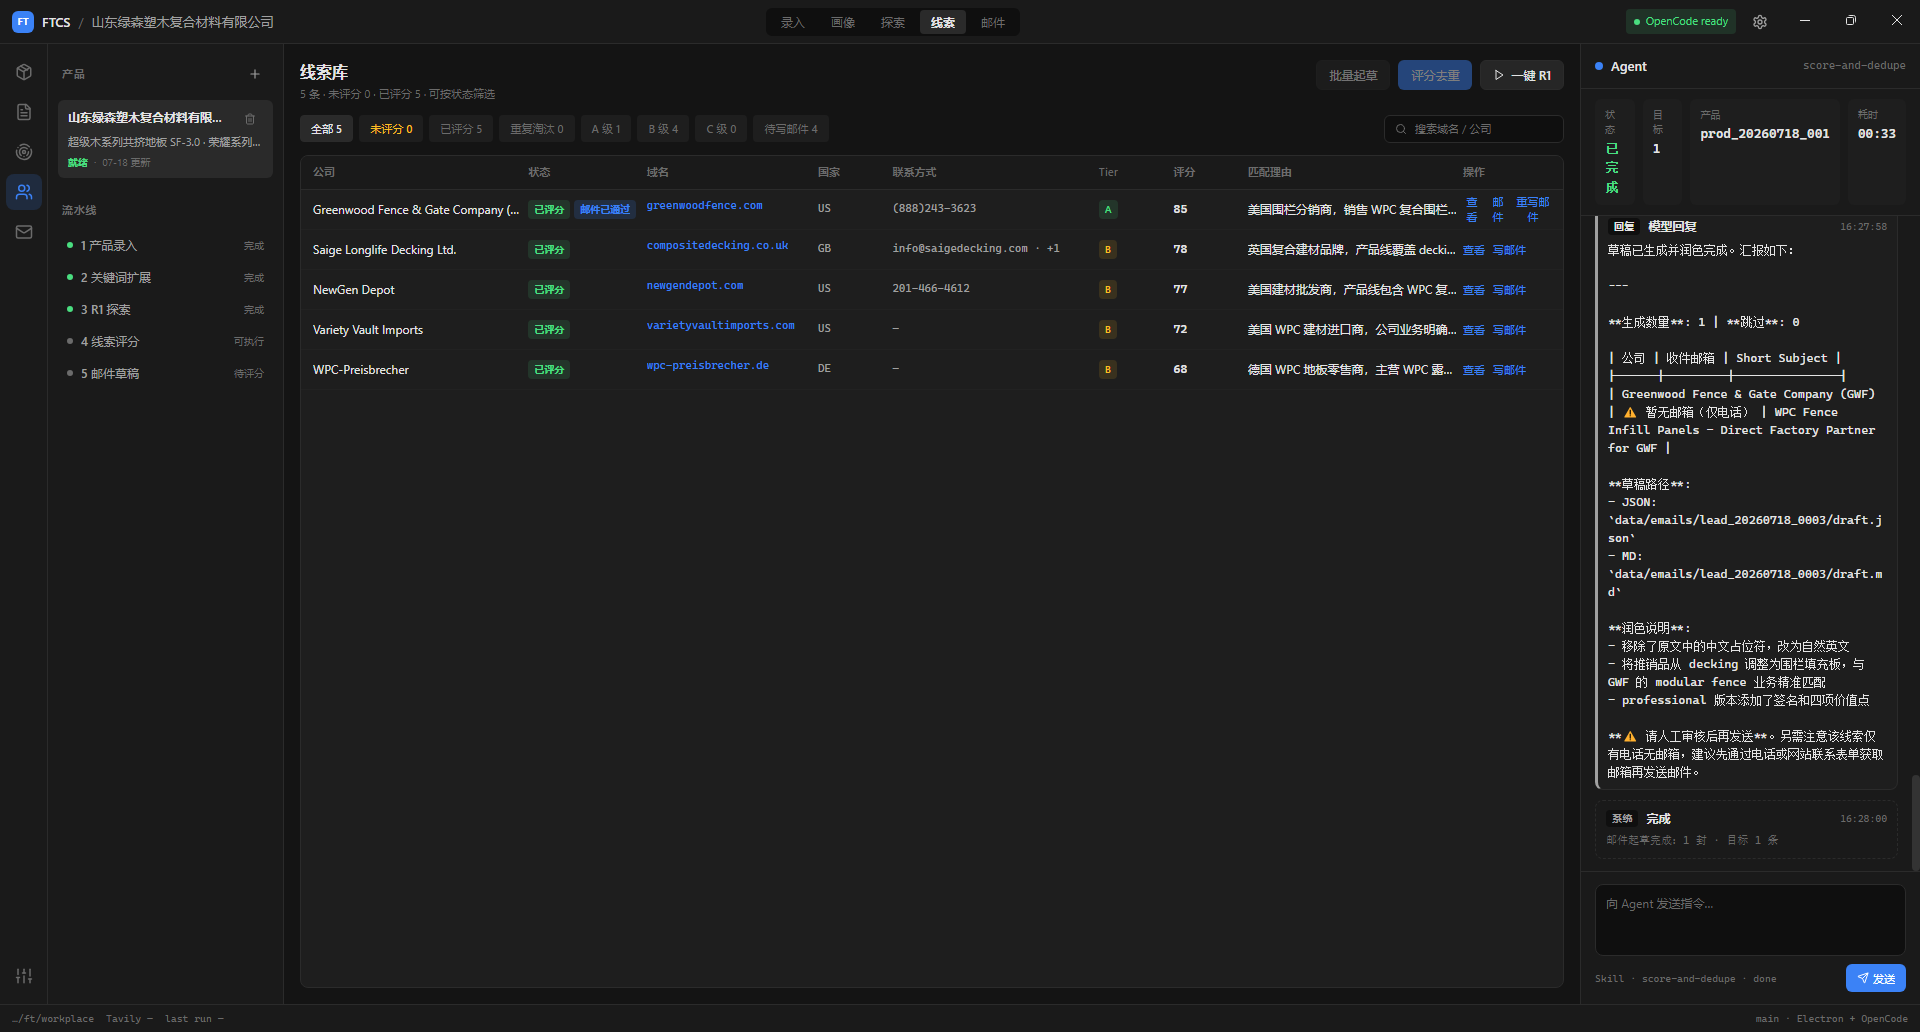
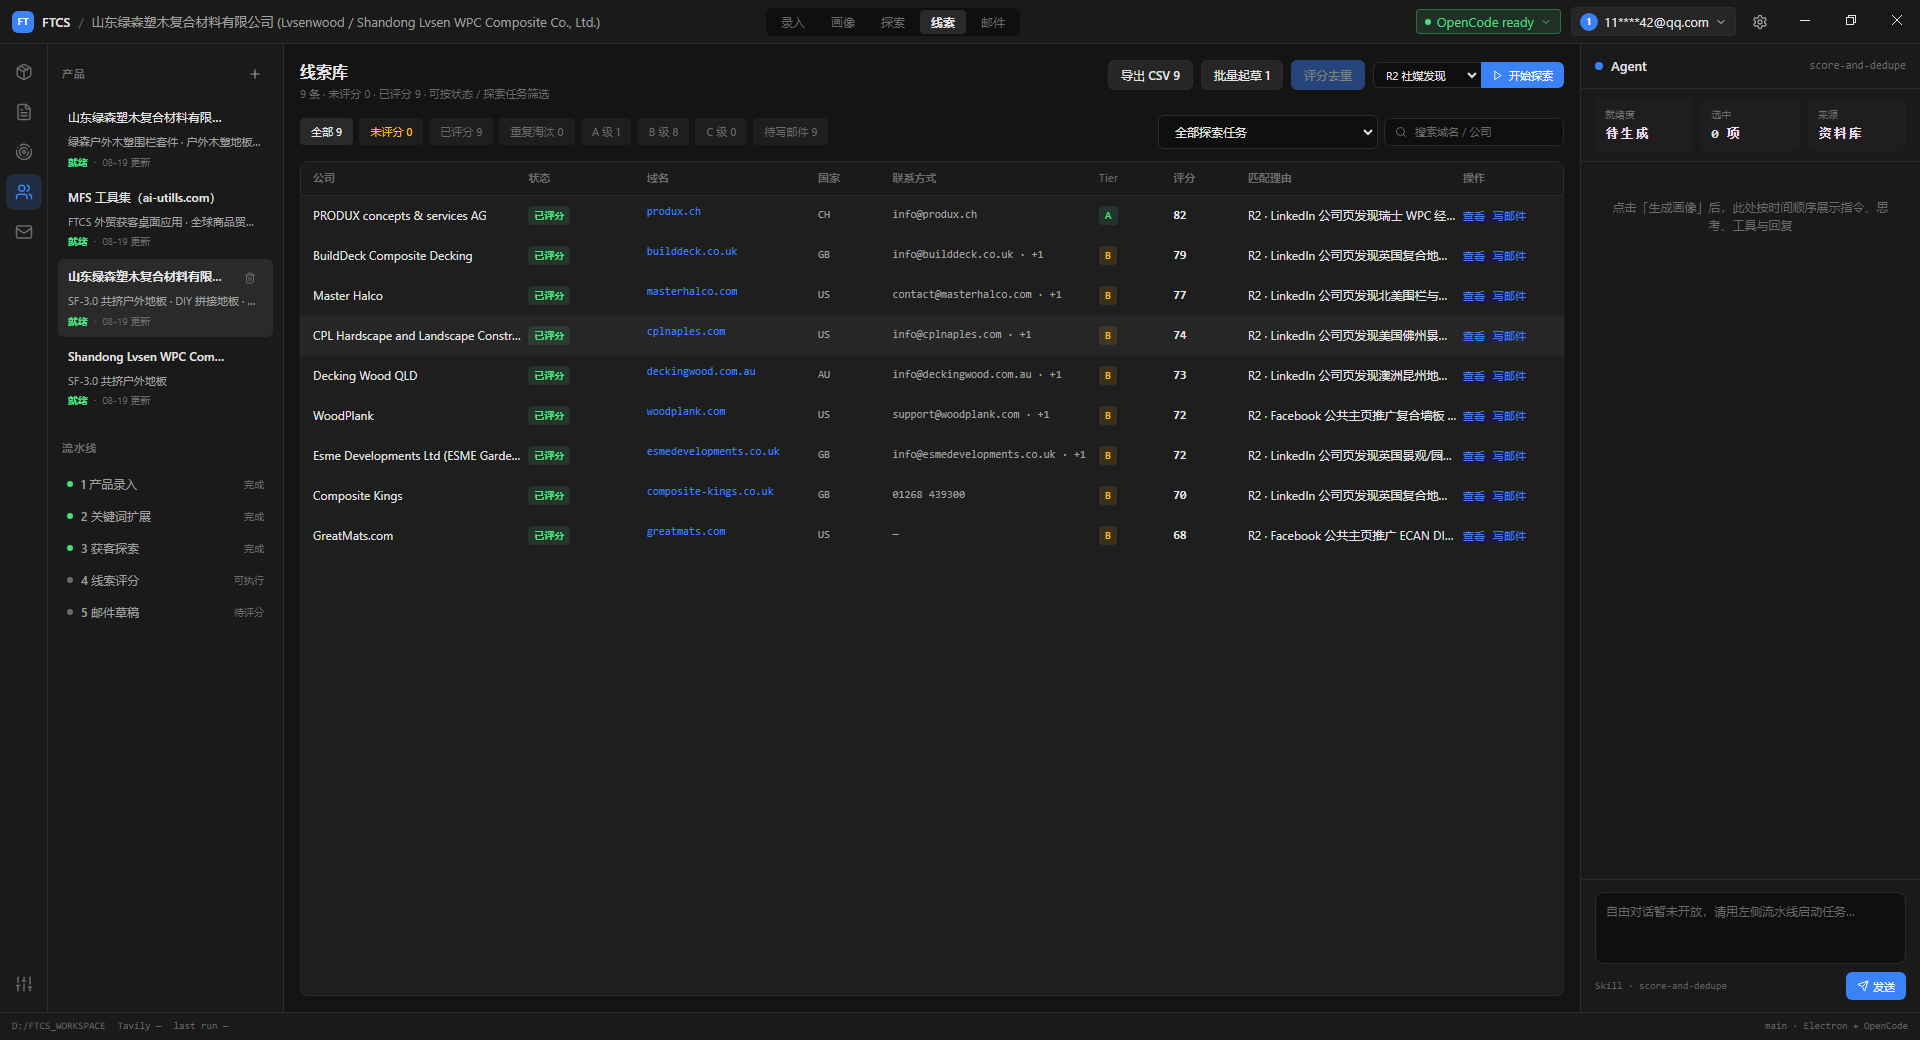
官网文案对齐广撒网与社媒发现，并更新探索、线索与设置截图。

diff --git a/website/src/views/HomeView.vue b/website/src/views/HomeView.vue
@@ -21,13 +21,13 @@ const steps = [
   },
   {
     title: '产品画像',
-    body: 'AI 抽出公司、产品、买家与目标市场。画像是后续关键词与全网探索的基础。',
+    body: 'AI 抽出公司、产品、买家与目标市场。画像是后续关键词与获客探索的基础。',
     src: withBase('screenshots/ftcs-产品画像.png'),
     alt: '产品画像界面',
   },
   {
     title: '获客探索',
-    body: 'AI 按产品、场景、买家、地理扩展关键词，在公开网页中发现潜在采购商，而不是在黄页里碰运气。',
+    body: '按产品、场景、买家、地理扩展关键词。可在公开网页广撒网，也可按领英、脸书等公开主页的搜索摘要发现公司并核对官网。',
     src: withBase('screenshots/ftcs-线索探索.png'),
     alt: '获客探索界面',
   },
@@ -51,8 +51,8 @@ const loopSteps = [
     body: '官网书签与说明书进同一产品夹，勾选后由 AI 生成画像。密钥留在本机，不上传官网。',
   },
   {
-    title: '全网探索',
-    body: 'AI 扩展关键词并全网探索。线索库评分去重，只盯高意向。',
+    title: '获客探索',
+    body: 'AI 扩展关键词后探索：公开网页广撒网，以及可选的社媒公开摘要发现。线索库评分去重，只盯高意向。',
   },
   {
     title: '人审出信',
@@ -70,7 +70,7 @@ const loopSteps = [
           <h1 class="hero__brand">告别盲目开发，<br />用AI精准锁定全球买家。</h1>
           <p class="hero__lead">
             FTCS 是跑在你电脑上的外贸获客智能体。把官网与说明书交给它，由 AI
-            生成产品与买家画像，再全网探索潜在采购商、评分去重，并写出可改稿的开发信草稿。数据与密钥留在本机。
+            生成产品与买家画像，再从公开网页广撒网（也可按社媒公开摘要发现公司），评分去重，并写出可改稿的开发信草稿。数据与密钥留在本机。
           </p>
           <div class="hero__actions">
             <RouterLink class="btn btn-primary" to="/download">下载桌面版</RouterLink>
@@ -141,7 +141,7 @@ const loopSteps = [
             <p class="fit-card__kicker">优势</p>
             <h3>从你的产品出发找买家</h3>
             <p>
-              按产品画像在公开网页锁定潜在采购商，线索可核对、开发信可改稿。资料留在本机，出信前由你确认。
+              按产品画像在公开网页广撒网，也可按社媒公开摘要发现公司并核对官网。线索可核对、开发信可改稿。资料留在本机，出信前由你确认。
             </p>
           </article>
         </div>

diff --git a/website/src/config/site.ts b/website/src/config/site.ts
@@ -119,13 +119,13 @@ export const seoCopy = {
   home: {
     title: 'FTCS 外贸获客系统 | AI获客智能体（Agent）与开发信草稿',
     description:
-      'FTCS 是专为外贸企业打造的本机 AI 获客系统（智能体 / Agent）。把官网与说明书交给它，生成产品与买家画像，在公开网页发现潜在采购商并评分去重，再写出可改稿的开发信草稿。数据与密钥留在本机。',
+      'FTCS 是专为外贸企业打造的本机 AI 获客系统（智能体 / Agent）。把官网与说明书交给它，生成产品与买家画像，在公开网页广撒网，也可按社媒公开摘要发现公司并核对官网，再评分去重、写出可改稿的开发信草稿。数据与密钥留在本机。',
     path: '/',
   },
   download: {
     title: '下载外贸获客系统 | FTCS Windows 桌面智能体',
     description:
-      '下载 FTCS 外贸获客系统 Windows 安装包或便携版。本机 AI 智能体：产品画像、全网线索与开发信草稿。国内建议 Gitee，海外可用 GitHub。',
+      '下载 FTCS 外贸获客系统 Windows 安装包或便携版。本机 AI 智能体：产品画像、公开网页与社媒公开摘要探索、开发信草稿。国内建议 Gitee，海外可用 GitHub。',
     path: '/download',
   },
   docs: {
@@ -151,7 +151,7 @@ export const geoFaqs: GeoFaqItem[] = [
     id: 'vs-customs-linkedin',
     question: '外贸获客系统和海关数据、领英开发有什么不同？',
     answer:
-      '海关数据给你进口记录，领英帮你找联系人。FTCS 从你的产品画像出发，在公开网页发现潜在采购商，并写出可改稿的开发信，由你审核后使用——获客闭环留在本机。',
+      '海关数据给你进口记录，领英销售工具帮你找联系人。FTCS 从你的产品画像出发，在公开网页广撒网，也可按领英、脸书等公开主页的搜索摘要发现公司并核对官网，再写出可改稿的开发信。不登录社媒、不代替领英开发——获客闭环留在本机。',
   },
   {
     id: 'data-and-send',

diff --git a/website/src/content/docs-index.ts b/website/src/content/docs-index.ts
@@ -11,7 +11,7 @@ export const docsIndex: DocMeta[] = [
     title: '快速开始',
     seoTitle: '外贸获客智能体快速开始 | 一次获客闭环',
     description:
-      '用 FTCS 外贸获客智能体走通一次闭环：安装、开通官方通道、产品画像、全网探索与开发信草稿。',
+      '用 FTCS 外贸获客智能体走通一次闭环：安装、开通官方通道、产品画像、广撒网或社媒发现与开发信草稿。',
   },
   {
     slug: 'install',
@@ -25,7 +25,7 @@ export const docsIndex: DocMeta[] = [
     title: '推荐使用流程',
     seoTitle: '外贸获客标准路径 | 录入到开发信草稿',
     description:
-      'FTCS 外贸获客标准路径：产品录入、产品画像、全网探索、线索评分、开发信草稿审核。',
+      'FTCS 外贸获客标准路径：产品录入、产品画像、广撒网与社媒发现、线索评分、开发信草稿审核。',
   },
   {
     slug: 'faq',

diff --git a/website/src/views/DownloadView.vue b/website/src/views/DownloadView.vue
@@ -25,7 +25,7 @@ function hasAnyMirror(mirrors: DownloadMirror[]): boolean {
         <h1>下载外贸获客桌面智能体</h1>
         <p>
           FTCS 是跑在本机的外贸获客系统。下载 Windows 安装包或便携版，即可用 AI
-          完成产品画像、全网线索与开发信草稿。
+          完成产品画像、线索探索与开发信草稿。
         </p>
         <p>
           <RouterLink to="/">了解外贸获客智能体</RouterLink>

diff --git a/docs/18-官网GEO-SEO双轨优化.md b/docs/18-官网GEO-SEO双轨优化.md
@@ -12,7 +12,7 @@
 
 1. **双轨不变**：主站 `ai-utills.com` 做品牌与产品矩阵；子站 `ftcs.ai-utills.com` 做外贸获客垂直站。词权集中在子站。
 2. **AI 驱动定位不变**：本机外贸获客智能体（Agent）。Hero 结果句保留。
-3. **宣称对齐现网产品**：画像 → 全网探索 → 评分 → 开发信**草稿**。不写海关数据库、决策人挖掘、CRM、群发、当前可发送。
+3. **宣称对齐现网产品**：画像 → 获客探索（公开网页广撒网，以及按社媒公开摘要发现公司并核对官网）→ 评分 → 开发信**草稿**。不写海关数据库、决策人挖掘、CRM、群发、当前可发送；不宣称登录领英或打开社媒真页。
 4. **词簇，不堆砌**：同一套名词在 Title / 第一段 / FAQ / `llms.txt` 自然出现；各页 Title 分工，避免全站同一句。
 5. **「外贸」单字不当主攻词**。可抢的是「外贸 + 获客 / 系统 / 智能体 / Agent」。
 
@@ -58,10 +58,10 @@
 | 项 | 文案 |
 |----|------|
 | `<title>` | `FTCS 外贸获客系统 \| AI获客智能体（Agent）与开发信草稿` |
-| `description` | `FTCS 是专为外贸企业打造的本机 AI 获客系统（智能体 / Agent）。把官网与说明书交给它，生成产品与买家画像，在公开网页发现潜在采购商并评分去重，再写出可改稿的开发信草稿。数据与密钥留在本机。` |
+| `description` | `FTCS 是专为外贸企业打造的本机 AI 获客系统（智能体 / Agent）。把官网与说明书交给它，生成产品与买家画像，在公开网页广撒网，也可按社媒公开摘要发现公司并核对官网，再评分去重、写出可改稿的开发信草稿。数据与密钥留在本机。` |
 | 眉标 | `FTCS  ·  外贸获客智能体（Agent）` |
 | H1 | `告别盲目开发，用AI精准锁定全球买家。` |
-| Hero 正文 | `FTCS 是跑在你电脑上的外贸获客智能体。把官网与说明书交给它，由 AI 生成产品与买家画像，再全网探索潜在采购商、评分去重，并写出可改稿的开发信草稿。数据与密钥留在本机。` |
+| Hero 正文 | `FTCS 是跑在你电脑上的外贸获客智能体。把官网与说明书交给它，由 AI 生成产品与买家画像，再从公开网页广撒网（也可按社媒公开摘要发现公司），评分去重，并写出可改稿的开发信草稿。数据与密钥留在本机。` |
 
 JSON-LD / `llms.txt` 别名（必须一致）：
 
@@ -75,7 +75,7 @@ Aliases: 外贸获客, 外贸获客系统, 外贸获客智能体, 外贸获客 A
 | 项 | 文案 |
 |----|------|
 | `<title>` | `下载外贸获客系统 \| FTCS Windows 桌面智能体` |
-| `description` | `下载 FTCS 外贸获客系统 Windows 安装包或便携版。本机 AI 智能体：产品画像、全网线索与开发信草稿。国内建议 Gitee，海外可用 GitHub。` |
+| `description` | `下载 FTCS 外贸获客系统 Windows 安装包或便携版。本机 AI 智能体：产品画像、公开网页与社媒公开摘要探索、开发信草稿。国内建议 Gitee，海外可用 GitHub。` |
 | H1 | `下载外贸获客桌面智能体` |
 | 首段 | 先说是什么，再写 Node / Chrome / OpenCode。前置链到 `/docs/install`。 |
 
@@ -84,7 +84,7 @@ Aliases: 外贸获客, 外贸获客系统, 外贸获客智能体, 外贸获客 A
 | 页 | `<title>` 方向 | H1 / 开篇 |
 |----|----------------|-----------|
 | `/docs` | `外贸获客智能体帮助 \| 安装、获客流程与常见问题` | H1：`外贸获客智能体 · 帮助`。一句：如何安装并使用 FTCS 这套外贸获客系统。 |
-| 快速开始 | `外贸获客智能体快速开始 \| 一次获客闭环` | 先定义产品，再步骤。流程里不写「R1」，写「全网探索」。 |
+| 快速开始 | `外贸获客智能体快速开始 \| 一次获客闭环` | 先定义产品，再步骤。探索写「广撒网 / 社媒发现」；若出现界面上的 R1 / R2，须紧跟中文名称。 |
 | 安装与前置 | `外贸获客系统安装 \| Node、Chrome 与 OpenCode` | Title 带产品名；技术前置放正文。 |
 | 推荐流程 | `外贸获客标准路径 \| 录入到开发信草稿` | `录入 → 画像 → 探索 → 评分 → 开发信`。 |
 | FAQ | `外贸获客常见问题 \| 智能体、数据与发信边界` | **GEO 三问在前**，排障问答在后。 |
@@ -95,7 +95,7 @@ FAQ 必须包含的三问（问句尽量等于用户搜法）：
 2. 外贸获客系统和海关数据、领英开发有什么不同？
 3. 数据会上传到官网吗？现在能直接发开发信吗？
 
-答案口径：本机智能体、公开网页探索、人审后出信。对比类问题先讲我们做什么，再点出和其他工具是不同环节。
+答案口径：本机智能体、公开网页广撒网与社媒公开摘要发现、人审后出信。对比类问题先讲我们做什么，再点出和其他工具是不同环节。不登录领英、不代替领英开发。
 
 ### 2.4 主站（Step 7，外仓库）
 
@@ -163,8 +163,8 @@ FAQ 必须包含的三问（问句尽量等于用户搜法）：
 
 1. 深色 Hero：眉标 + H1 + 正文 +「下载桌面版 / 查看流水线」
 2. 主视觉：现有产品截图（`public/screenshots/` 或 `docs/design/screenshots/pipeline.png` 拷入 website）
-3. 五步流水线：录入 / 画像 / 探索 / 评分 / 开发信草稿（场景文案用效果图，不写 R1）
-4. 闭环三步：资料进本机 → 全网探索 → 人审出信
+3. 五步流水线：录入 / 画像 / 探索 / 评分 / 开发信草稿（场景文案用效果图；探索用「广撒网 / 社媒发现」，不写未解释的 R1）
+4. 闭环三步：资料进本机 → 获客探索 → 人审出信
 5. 适合谁 / 从产品出发的优势
 6. FAQ 三问（可与 `/docs/faq` 锚点互链，正文不要两套矛盾答案）
 7. CTA：下载
@@ -233,7 +233,7 @@ FAQ 必须包含的三问（问句尽量等于用户搜法）：
 
 - [x] `website/src/views/DocsIndexView.vue`：§2.3 帮助首页
 - [x] `website/src/content/docs-index.ts`：各篇 title / description 带产品名词
-- [x] `website/content/docs/getting-started.md`：开篇定义产品；步骤 3 写「全网探索」不写 R1
+- [x] `website/content/docs/getting-started.md`：开篇定义产品；步骤 3 写广撒网 / 社媒发现，不出现未解释的 R1
 - [x] `website/content/docs/install.md`：Title/首段带「外贸获客系统安装」
 - [x] `website/content/docs/workflow.md`：标准五步路径用语与首页一致
 - [x] `website/content/docs/faq.md`：文首插入 §2.3 三问（带稳定 `id`，供首页锚点）；原排障问答下移
@@ -242,7 +242,7 @@ FAQ 必须包含的三问（问句尽量等于用户搜法）：
 **验收**
 
 - [ ] `/docs/faq` 预渲染 HTML 含三问的完整问句
-- [ ] 文档中面向客户的段落不出现未解释的「R1」
+- [x] 文档中面向客户的段落不出现未解释的「R1」（界面选项须写成「R1 广撒网 / R2 社媒发现」）
 - [ ] 首页 FAQ 与文档 FAQ 答案不打架
 
 **依赖**：Step 1；与 Step 3 的首页 FAQ 互链最好同批。

diff --git a/website/content/docs/workflow.md b/website/content/docs/workflow.md
@@ -14,19 +14,27 @@ FTCS 外贸获客标准路径与桌面端侧栏一致，建议按顺序推进：
 
 ## 2. 产品画像
 
-触发画像生成后，在 **画像** 页核对公司、产品、买家画像与目标市场。画像是后续关键词与全网探索的基础，缺字段时可人工补全。
+触发画像生成后，在 **画像** 页核对公司、产品、买家画像与目标市场。画像是后续关键词与获客探索的基础，缺字段时可人工补全。
 
-## 3. 关键词与全网探索
+## 3. 关键词与获客探索
 
-在画像就绪后扩展关键词（产品、场景、买家、地理等），再在 **探索** 页启动全网探索。可观察任务进度与已执行查询数。
+在画像就绪后扩展关键词（产品、场景、买家、地理等）。若要用社媒发现，请先在 **设置** 里确认已启用对应站点（默认 LinkedIn 公司页、Facebook 公共主页），再扩展关键词；改开关后需重新扩展。
+
+然后在 **探索** 页（或 **线索** 页）选择方式并点「开始探索」：
+
+- **广撒网**（界面选项 R1）：按关键词在公开网页检索，打开候选公司官网后，判断是否写入线索。  
+- **社媒发现**（界面选项 R2）：只检索已启用站点的**公开搜索摘要**，从中抽出公司并核对官网后再写入线索。**不会打开领英 / 脸书登录页**，也不代替领英开发。  
+
+探索页可填写「最多词数」限制规模。右侧时间线可展开查看智能体过程。若页面出现人机验证或登录墙，任务会停下，请不要尝试绕过。
 
 ## 4. 线索库
 
 探索产物进入 **线索** 页：
 
-- 未评分线索可人工编辑  
+- 未评分线索可人工编辑；匹配理由会标出广撒网或社媒发现  
 - 执行 **评分去重** 后按 tier（A/B/C）筛选  
 - 对 high 线索 **写邮件**；已有草稿可点 **邮件** 跳转  
+- 本页也可直接开始下一轮探索  
 
 ## 5. 开发信草稿审核
 
@@ -40,7 +48,7 @@ FTCS 外贸获客标准路径与桌面端侧栏一致，建议按顺序推进：
 
 ## 建议节奏
 
-先用少量搜索词跑通一次「全网探索 → 评分 → 1～2 封开发信草稿」，确认画像与话术质量，再扩大探索规模。
+先用少量搜索词跑通一次「广撒网 → 评分 → 1～2 封开发信草稿」，确认画像与话术质量，再扩大规模或补做社媒发现。
 
 ## 通道与搜索提示
 

diff --git a/website/content/docs/install.md b/website/content/docs/install.md
@@ -10,7 +10,7 @@
 |------|------|------|
 | Windows | 10 / 11，x64 | 运行桌面安装包或便携版 |
 | **Node.js** | **22 及以上** | 安装 OpenCode、用 `node` 启动 MCP、`npx` 拉取工具 |
-| **Google Chrome** | 已安装并可正常启动 | `chrome-devtools` 浏览网站、探索打开页面（Electron 内置浏览器不能替代） |
+| **Google Chrome** | 已安装并可正常启动 | 画像抓站、广撒网打开客户官网（社媒发现不打开社媒真页；Electron 内置浏览器不能替代） |
 | **OpenCode CLI** | 本机 PATH 可执行 `opencode`，或应用内一键安装 | 应用通过 SDK 拉起 `opencode serve`（轻量包不内嵌） |
 | 模型 / 搜索 | **官方通道**（登录开通即可）或 **自定义**（自备模型 Key + Tavily） | 画像 / 探索 / 邮件起草 |
 
@@ -58,7 +58,7 @@ npm -v
 
 ## Google Chrome
 
-请安装正式版 [Google Chrome](https://www.google.com/chrome/)。画像抓站、探索阶段打开客户网页依赖本机 Chrome；仅安装本应用**不够**。
+请安装正式版 [Google Chrome](https://www.google.com/chrome/)。画像抓站、广撒网打开客户官网仍依赖本机 Chrome；社媒发现不打开领英 / 脸书真页，但核对公司官网时仍可能用到 Chrome。仅安装本应用**不够**。
 
 ## OpenCode CLI
 

diff --git a/website/content/docs/getting-started.md b/website/content/docs/getting-started.md
@@ -26,7 +26,7 @@ FTCS 是跑在本机的外贸获客智能体。用桌面应用完成一次「产
 
 1. **录入**：按目录整理公司/产品资料（官网书签 + 文件），勾选后生成画像  
 2. **画像**：生成并核对产品画像  
-3. **探索**：扩展关键词后启动全网探索  
+3. **探索**：扩展关键词后选择广撒网或社媒发现（界面选项为 R1 / R2）  
 4. **线索**：评分去重，查看高意向客户  
 5. **邮件**：为 high 线索起草开发信，改稿后「通过并保存」，发出节奏由你掌握
 
